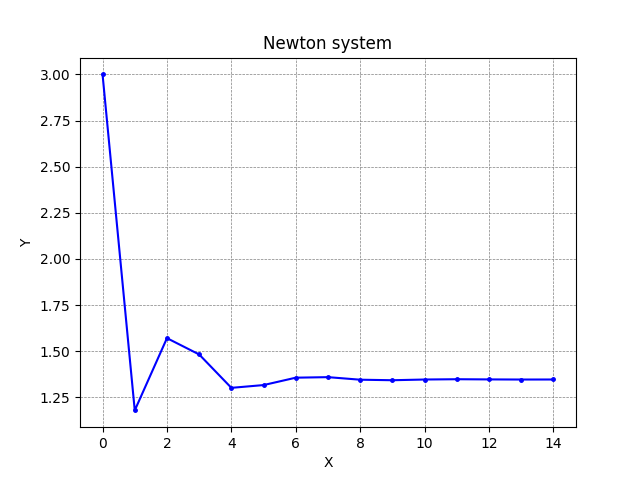
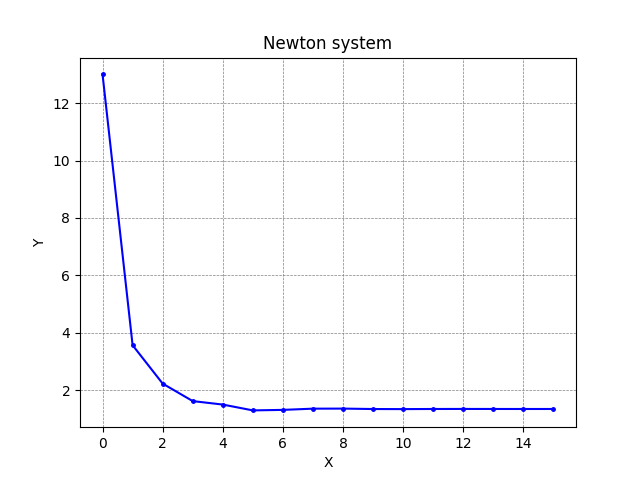
Readme update

diff --git a/Task3/nonlinear_eq.py b/Task3/nonlinear_eq.py
@@ -57,8 +57,8 @@ def y_from_eq(x):
 
 def mpi_system():
     eps: float = 1e-4
-    prev_x = 5.0
-    prev_y = 5.0
+    prev_x = 15.0
+    prev_y = 15.0
     xs = [prev_x]
     ys = [prev_y]
     new_x = x_from_eq(prev_y)
@@ -75,8 +75,8 @@ def mpi_system():
 
 def newton_system():
     eps: float = 1e-4
-    prev_x = 3.0
-    prev_y = 3.0
+    prev_x = 13.0
+    prev_y = 13.0
     xs = [prev_x]
     ys = [prev_y]
     dF = np.zeros((2, 2))

diff --git a/Task3/README.md b/Task3/README.md
@@ -18,9 +18,3 @@
   <img src="https://github.com/EnikAs/Computational-Mathematics/blob/main/Task3/img/x_n_newton.png" width="800" alt="">
   <img src="https://github.com/EnikAs/Computational-Mathematics/blob/main/Task3/img/system_newton.png" width="800" alt="">
 </div>
-
-### Полученные решения:
-
-<div class="img-div3">
-  <img src="https://github.com/EnikAs/Computational-Mathematics/blob/main/Task3/img/answers.png" width="800" alt="">
-</div>
